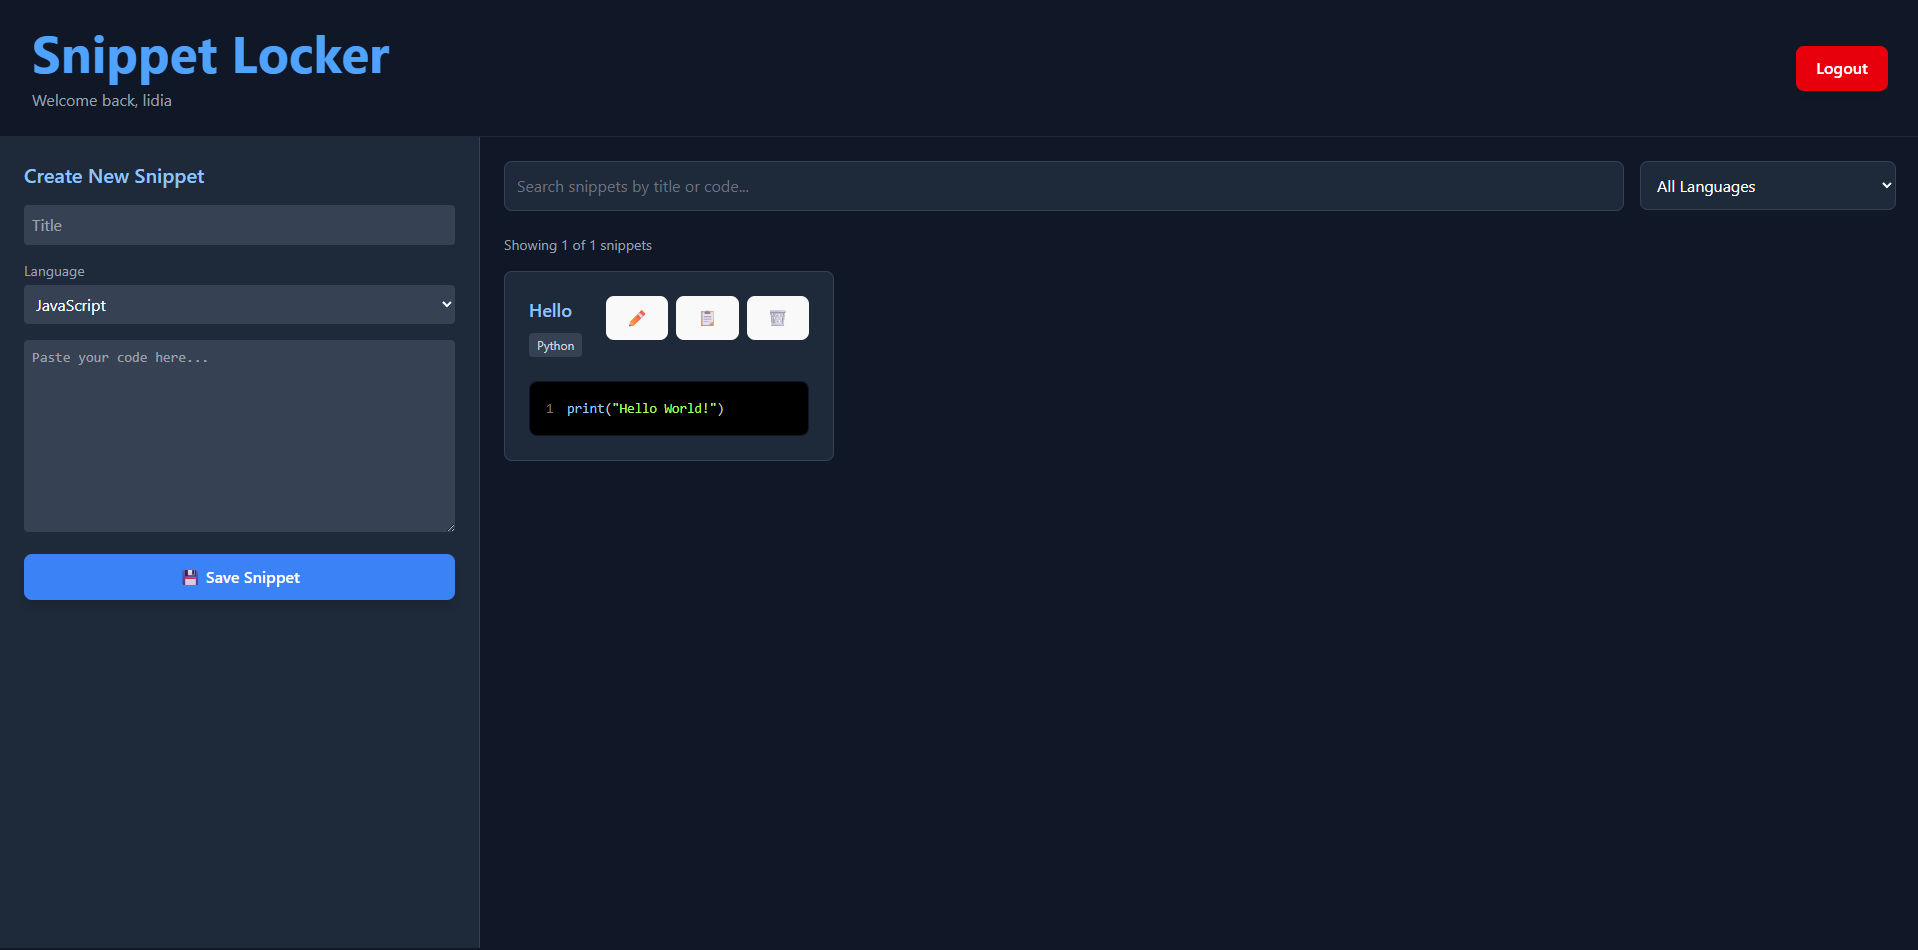
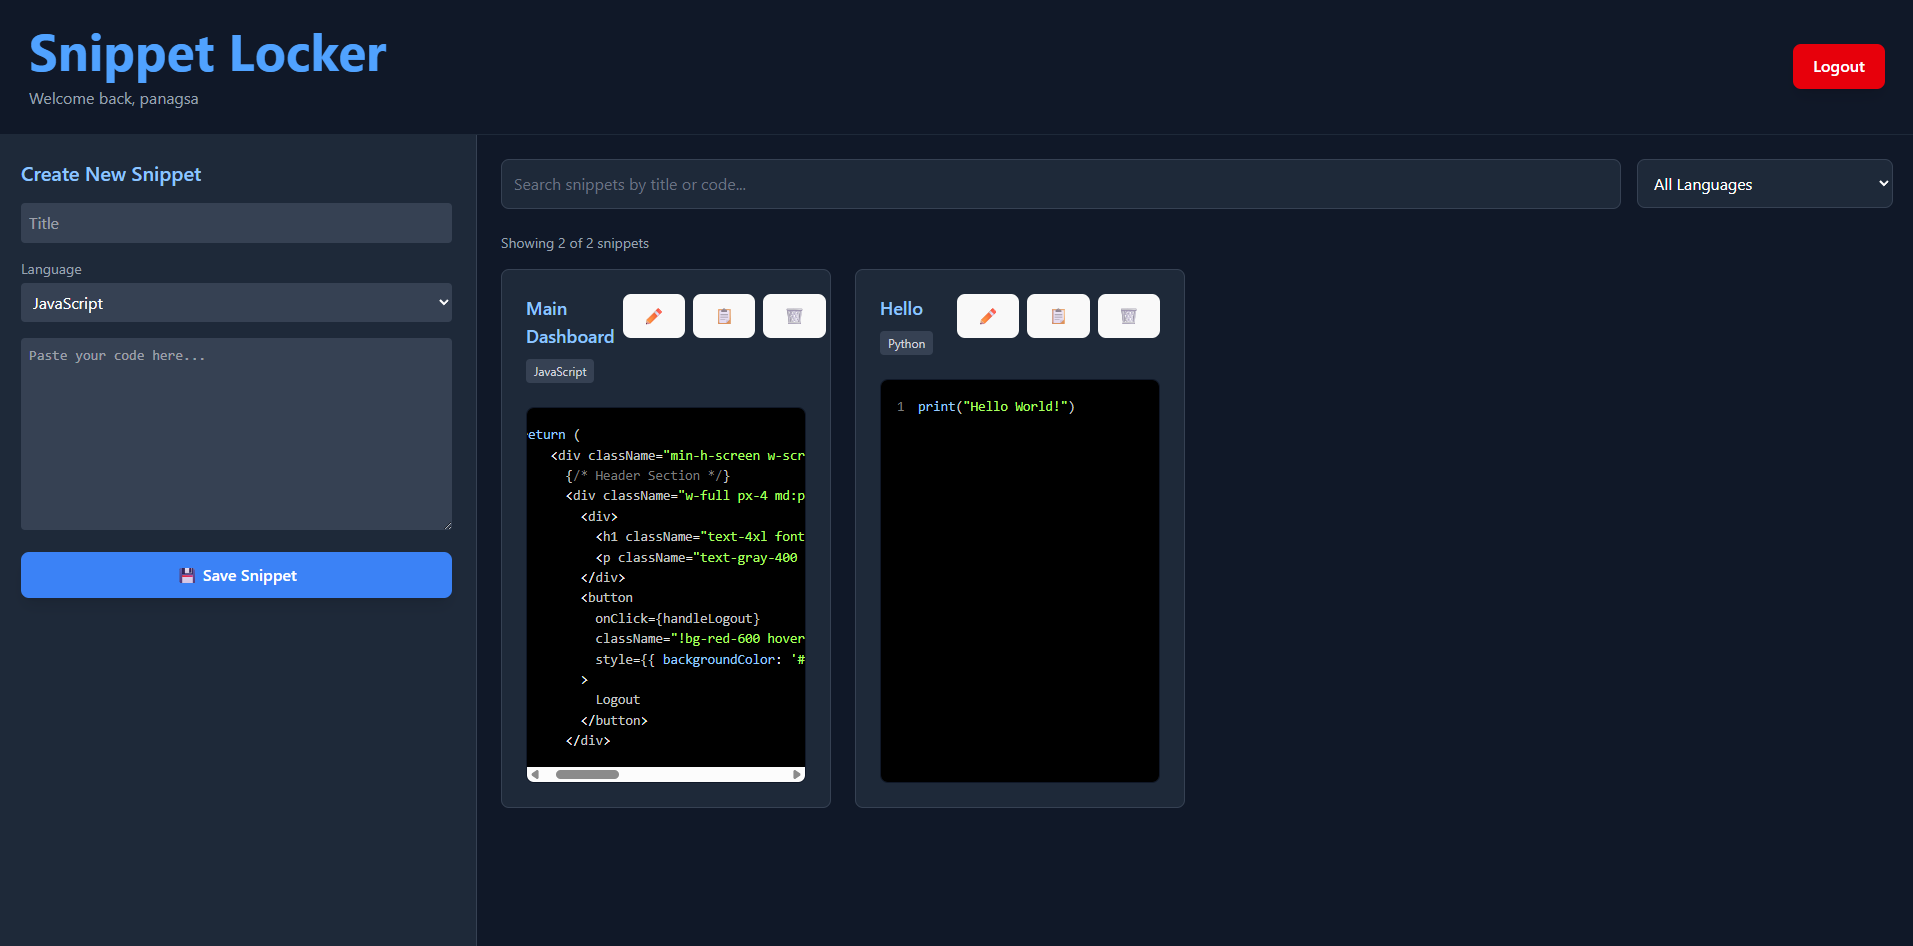
Updated Screenshots With More Features

diff --git a/README.md b/README.md
@@ -10,15 +10,32 @@ I wanted to practice building a "Full Stack" app, so I used:
 * **React** on the front end to make it feel fast and snappy.
 * **Tailwind CSS** because I wanted it to look dark and modern without writing 500 lines of CSS.
 
-## What it does right now
-Save a snippet with a **title**, **code**, and **programming language**.  
-* List all your snippets in a clean, searchable dashboard.  
-* Edit snippets in a modal window without leaving the page.  
-* Copy snippets to your clipboard with a simple click.  
-* Delete snippets to keep things tidy.  
-* Filter snippets by **language** or search by **title/code**.  
-* Secure authentication: register, login, logout. Each user sees    only their own snippets.
-* It's set up with environment variables, so the API URLs aren't hardcoded (keeps things secure!).
+## Features
+
+### User Management
+- Secure user registration and login
+- Token-based authentication
+- Each user has their own private snippet collection
+
+### Snippet Management
+- Create, read, update, and delete code snippets
+- Search snippets by title or code content
+- Filter by programming language
+- One-click copy to clipboard
+- Edit existing snippets with a modal interface
+
+### Code Display
+- Syntax highlighting for 20+ programming languages
+- Line numbers for better readability
+- Responsive grid layout
+- Dark theme optimized for coding
+
+### User Experience
+- Loading states for all async operations
+- Empty state messaging
+- Real-time search and filtering
+- Full-width responsive design
+
 
 ## Screenshots
 
@@ -32,7 +49,15 @@ Save a snippet with a **title**, **code**, and **programming language**.
 
 ### Language Support / Filter
 ![Language Support](Screenshots/Language%20Support.png)
-*List of languages supported with syntax highlighting*
+*List of languages supported with syntax highlighting.*
+
+### Edit
+![Edit Feature](Screenshots/Edit.png)
+*Edit your snippet when you need.*
+
+### Search Filter
+![Search](Screenshots/Search_filter.png)
+*Either search your snippet or filter the language selection.*
 
 ## Want to run it yourself?
 If you've cloned this, here is the "non-boring" guide to getting it started:
